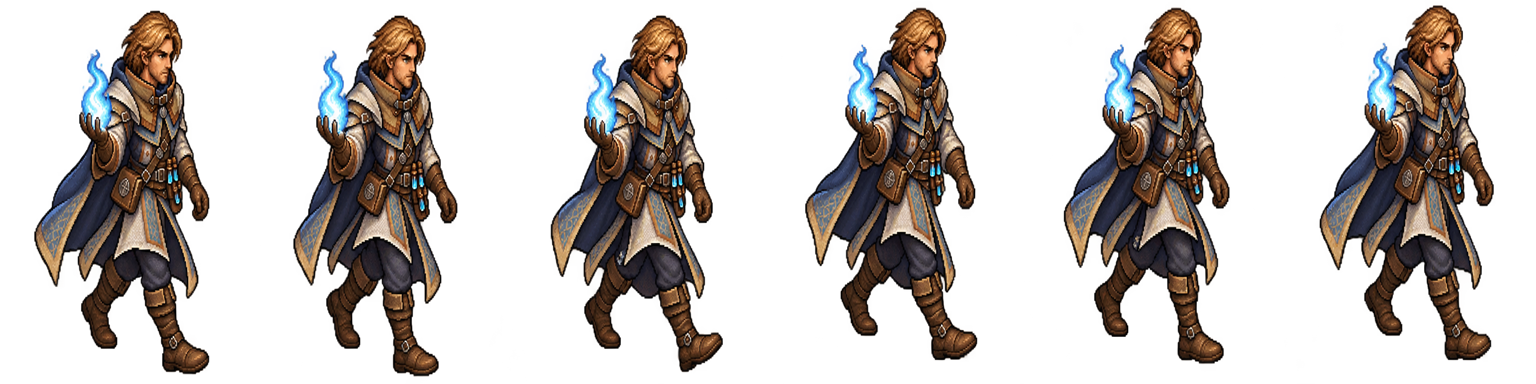
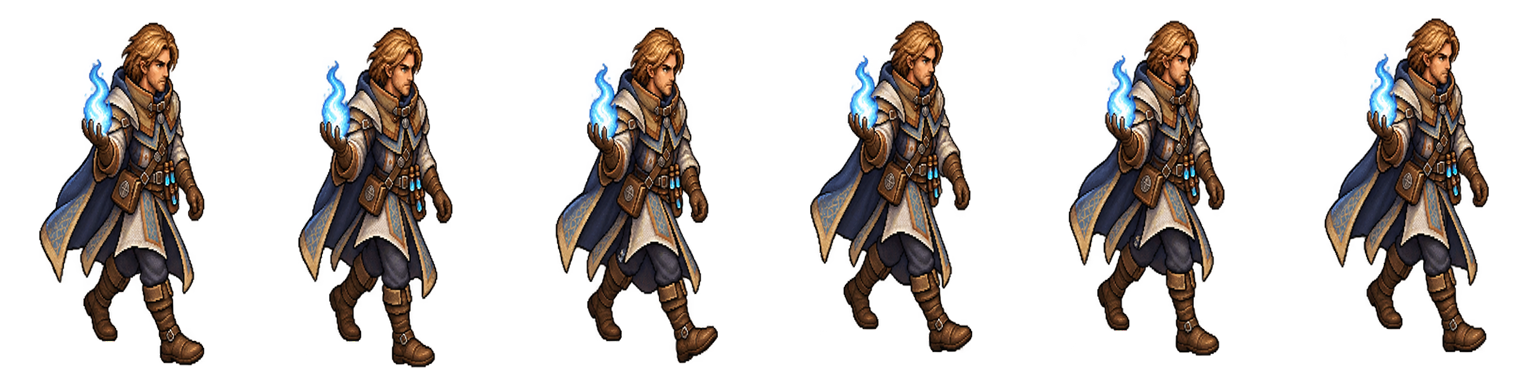
Normalize walk strip scale to idle height for five heroes (BUG-021)

diff --git a/.atena/backlog/BUGS.md b/.atena/backlog/BUGS.md
@@ -54,7 +54,7 @@ abaixo. Cada item vira BUG-nnn se falhar.
 | BUG-014 | P1 | Ritual: concluir não dá recompensa e a penalidade vira XP | EVID-106 IN-001 (Dagruve, regra `rituals`) | **Reclassificado como mecânica (D1, 2026-09-29):** recompensa em MEC-026 (SPEC-084); aguarda playtest. T03 discorda (contestado). [Histórico](#bug-014) | — |
 | BUG-015 | P1 | Ferreiro: prévia Nv+1 mostra os mesmos mods e o +15 % é truncado | [EVID-107](../evidence/EVID-107-playtest-publico-t02-hiago-2026-09-29.md) IN-028 | **IMPLEMENTADO 2026-09-29**: `Items.scaled_mods`/`upgrade_preview`; `mods_text` não trunca mais. Reabre a verificação de BUG-008; aguarda run real. [Histórico](#bug-015) | — |
 | BUG-020 | P1 | Bloco de notas (F5) aberto sobre HQ: espaço avança a HQ em vez de digitar; o bloco deve ficar em primeiro plano e capturar o foco | [EVID-139](../evidence/EVID-139-playtest-higor-qa-14b15e4-2026-10-01.md) IN-041 | **IMPLEMENTADO 2026-10-01** (`ui/hq_screen.gd` ignora entrada com o F5 aberto; `Playtest.is_note_open()`; teste em `tests/test_hqs.gd`). Falta conferir em run real | — |
-| BUG-021 | P1 | Heróis (Brook, Durvall, Leoric, Kayron, Korrak…) esticam/alargam/afinam ao andar; Sylas não | [EVID-139](../evidence/EVID-139-playtest-higor-qa-14b15e4-2026-10-01.md) IN-044 | **Causa medida** (`audit_hero_motion`): cada tira foi encaixada na célula 256×384 com escala própria; altura da mesma figura varia de 215 a 368 px entre idle e direções. Plano: normalizar por escala única por herói (altura do idle) e mesma linha de base; regenerar só o que ficar fora. Antecedente: SPEC-101 / EVID-129. **PARCIAL 2026-10-01** ([SPEC-112](../specs/SPEC-112-normalizacao-base-e-bordas-dos-herois.md), [EVID-140](../evidence/EVID-140-normalizacao-base-e-bordas-dos-herois-2026-10-01.md)): base e bordas corrigidas (27 tiras, `edge_frames` = 0, suíte ok). **Segue aberto:** altura entre direções (a escala veio do encaixe, sem originais; caminho 1 = medir o corpo, ou regenerar) e Maelor `move_n`/`move_e` com base fora do idle | — |
+| BUG-021 | P1 | Heróis (Brook, Durvall, Leoric, Kayron, Korrak…) esticam/alargam/afinam ao andar; Sylas não | [EVID-139](../evidence/EVID-139-playtest-higor-qa-14b15e4-2026-10-01.md) IN-044 | **Causa medida** (`audit_hero_motion`): cada tira foi encaixada na célula 256×384 com escala própria; altura da mesma figura varia de 215 a 368 px entre idle e direções. Plano: normalizar por escala única por herói (altura do idle) e mesma linha de base; regenerar só o que ficar fora. Antecedente: SPEC-101 / EVID-129. **PARCIAL 2026-10-01** ([SPEC-112](../specs/SPEC-112-normalizacao-base-e-bordas-dos-herois.md), [EVID-140](../evidence/EVID-140-normalizacao-base-e-bordas-dos-herois-2026-10-01.md)): base e bordas corrigidas (27 tiras, `edge_frames` = 0, suíte ok). **IMPLEMENTADO 2026-10-01 (altura entre direções):** `tools/normalize_hero_scale.gd` aplicado em Brook, Durvall, Leoric, Bromnor e Maelor (30 tiras; andar alinhado à altura e base do idle; Maelor `move_n`/`move_e` voltaram à base 364); `HERO_IDLE_ART_HEIGHT` atualizada (durvall 279, bromnor 284, leoric 270); `edge_frames` = 0, suíte ok. **Residual:** Durvall `move_e` (237 vs 279), Leoric `move_e`/`move_se` (~230 vs 270) e Bromnor andando (245–284 vs idle 284) não cabem na célula sem cortar: candidatos a regeneração. Falta olho no jogo e regerar o `ASSET-OFFICIAL-LOCK` | — |
 | BUG-022 | P2 | HQ "A Peregrinação da Estrela", quadro 2: braço de Korrak fundido ao machado | [EVID-139](../evidence/EVID-139-playtest-higor-qa-14b15e4-2026-10-01.md) IN-042 | Aberto. Regenerar/retocar o quadro (restante da imagem aprovado) | — |
 
 > Decisão do dono (2026-09-29): as verificações BUG-003 a 010 são pagas **no
